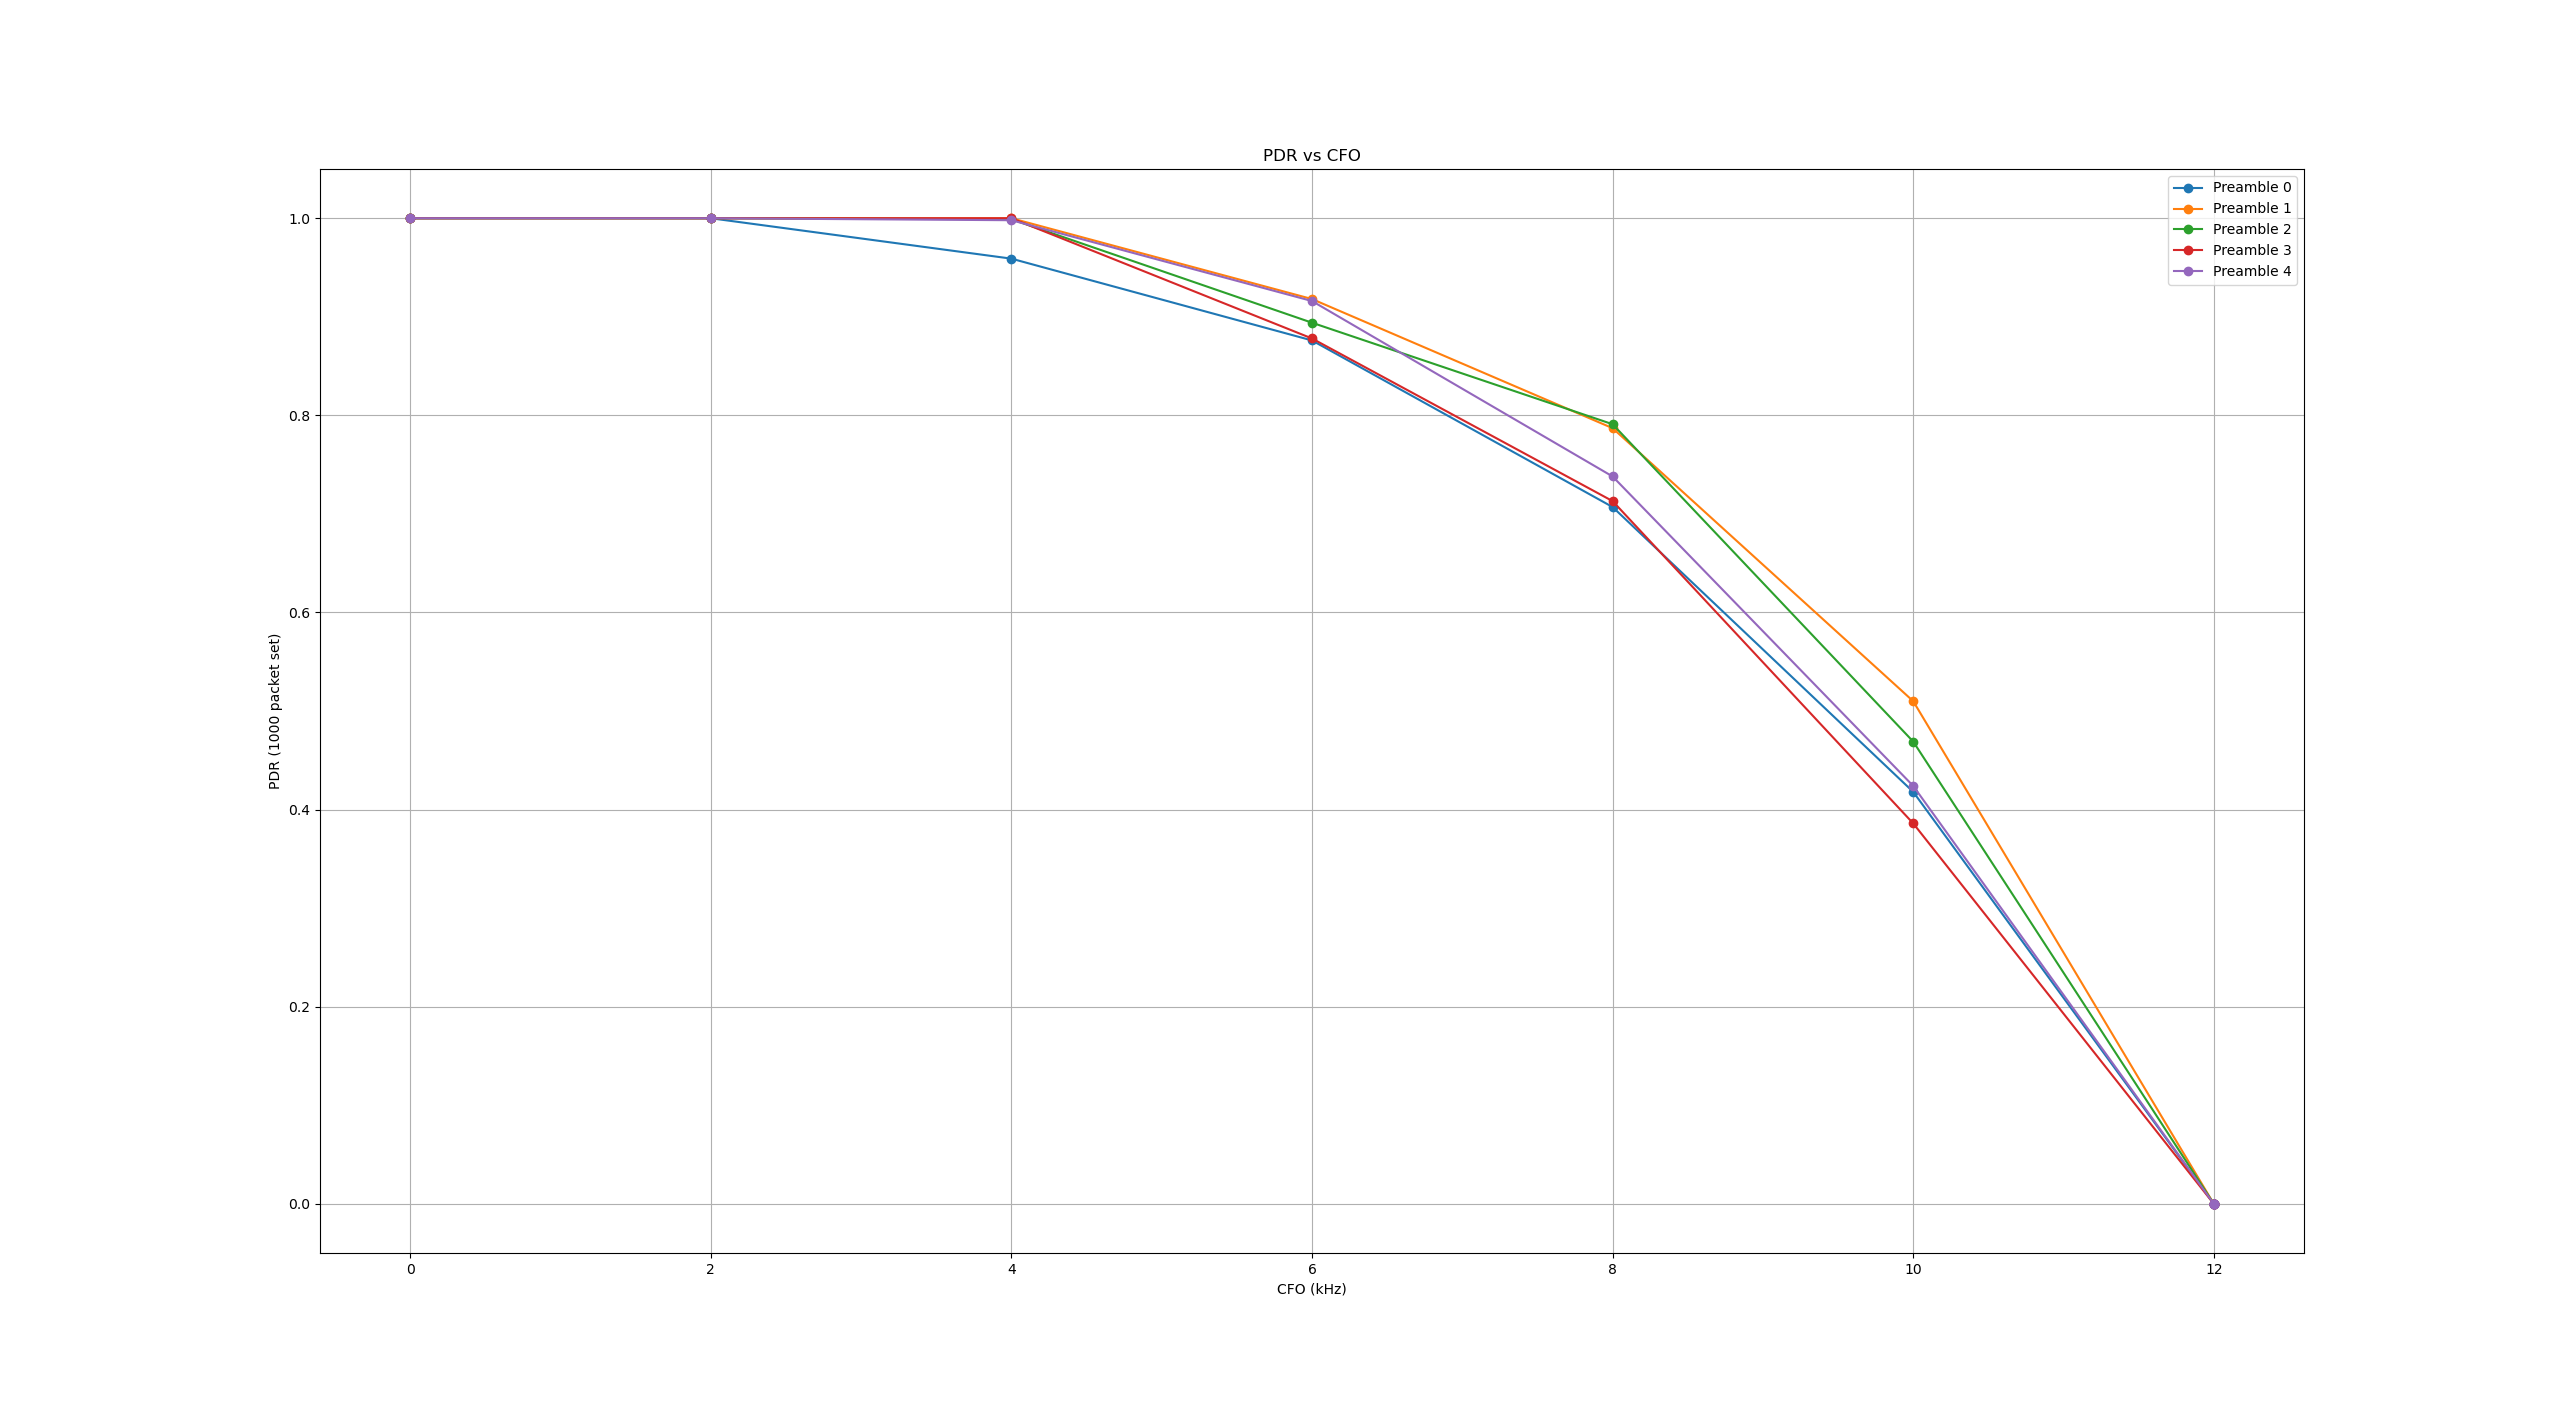
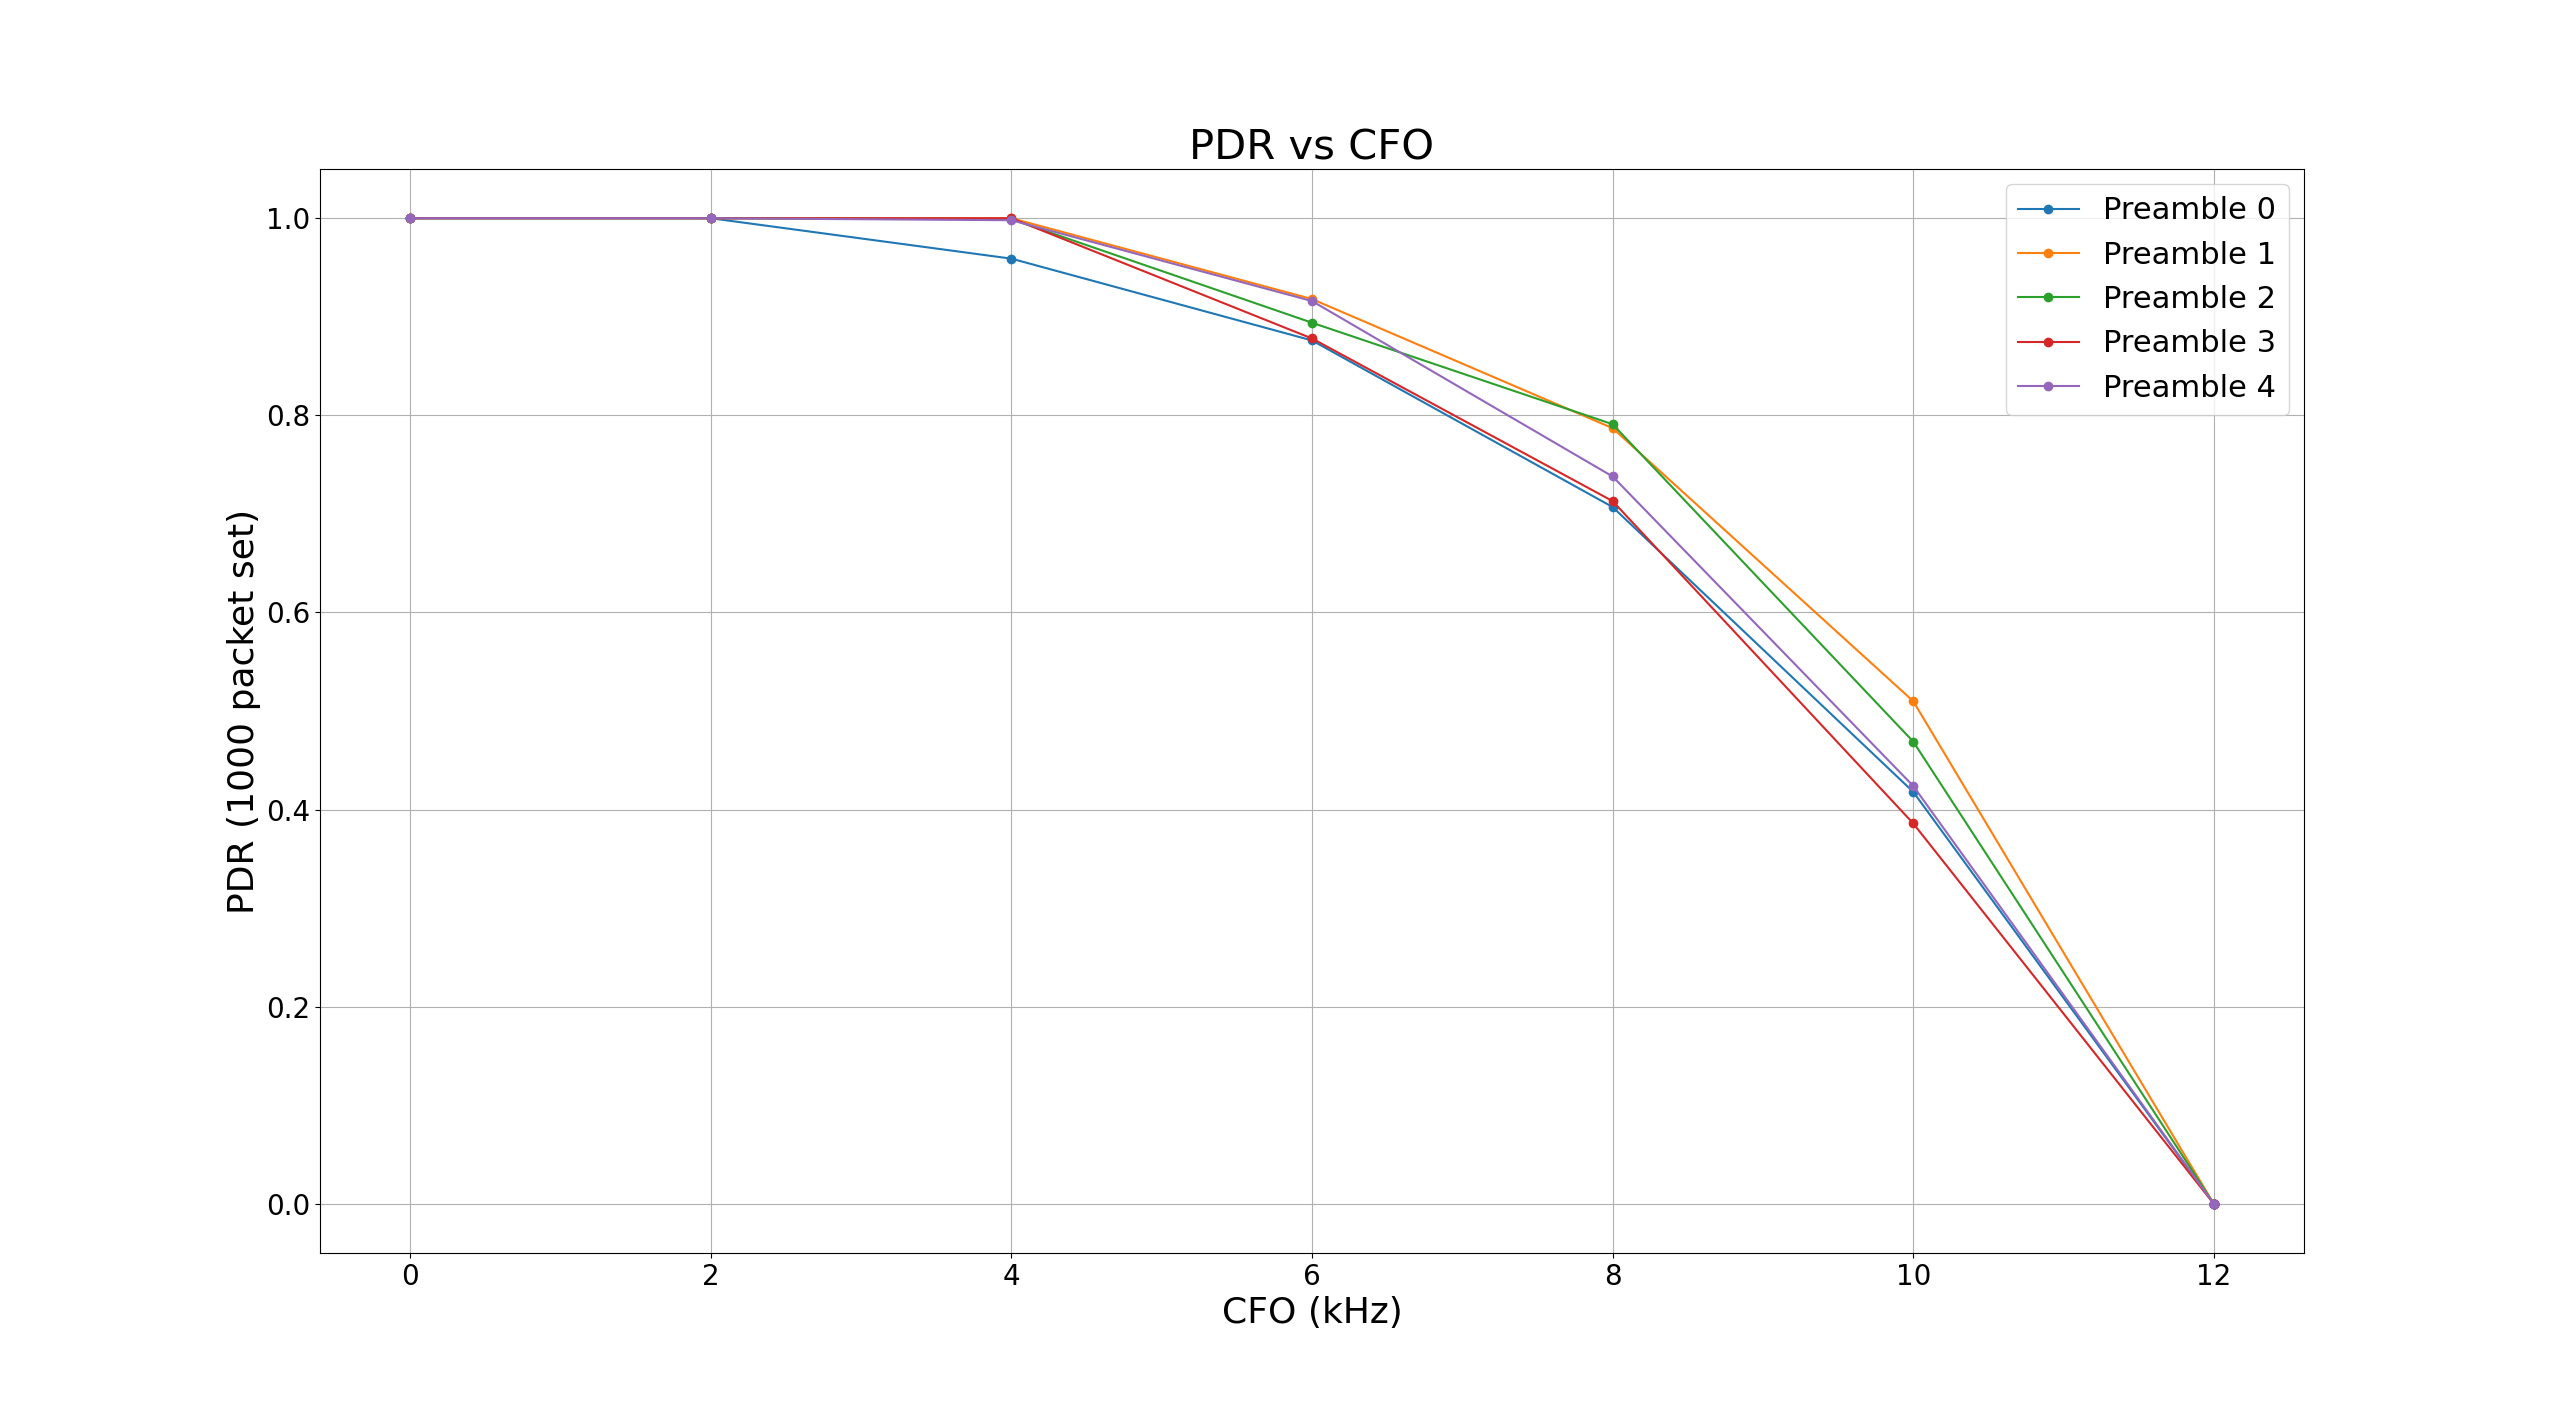
fixed label size

diff --git a/MC Preamble Testing data/phrasedata_snr.py b/MC Preamble Testing data/phrasedata_snr.py
@@ -15,7 +15,7 @@ all_preambles_data = []
 
 # Iterate through different Preamble_mcX directories
 for preamble_number in range(5):  # Range 5 for Preamble_mc0 to Preamble_mc4
-    directory = f'/home/spencer/Desktop/testing data/Preamble_mc{preamble_number}/Noise'
+    directory = f'/home/spencer/Documents/SeniorDesign/Git/dynamic-preambles/MC Preamble Testing data/Preamble_mc{preamble_number}/Noise'
 
     # Initialize lists to store CFO and PDR values for the current preamble
     SNR_values = []
@@ -46,10 +46,11 @@ for i, preamble_data in enumerate(all_preambles_data):
     SNR_values, PDR_values = zip(*preamble_data)
     plt.plot(SNR_values, PDR_values,marker='o', label=f'Preamble {i}')
 
-plt.xlabel('SNR (dB)')
-plt.ylabel('PDR (1000 packet set)')
-plt.title('PDR vs SNR')
-plt.legend()
+plt.xlabel('SNR (dB)', fontsize= 26)
+plt.ylabel('PDR (1000 packet set)', fontsize= 26)
+plt.title('PDR vs SNR', fontsize= 30)
+plt.tick_params(axis='both', which='major', labelsize=20)
+plt.legend(fontsize= 22)
 plt.grid(True)
 plt.show()
 

diff --git a/MC Preamble Testing data/phrasedata_cfo.py b/MC Preamble Testing data/phrasedata_cfo.py
@@ -14,7 +14,7 @@ all_preambles_data = []
 
 # Iterate through different Preamble_mcX directories
 for preamble_number in range(5):  # Range 5 for Preamble_mc0 to Preamble_mc4
-    directory = f'/home/spencer/Desktop/testing data/Preamble_mc{preamble_number}/CFO'
+    directory = f'/home/spencer/Documents/SeniorDesign/Git/dynamic-preambles/MC Preamble Testing data/Preamble_mc{preamble_number}/CFO'
 
     # Initialize lists to store CFO and PDR values for the current preamble
     CFO_values = []
@@ -44,10 +44,11 @@ for i, preamble_data in enumerate(all_preambles_data):
     CFO_values, PDR_values = zip(*preamble_data)
     plt.plot(CFO_values, PDR_values,marker='o', label=f'Preamble {i}')
 
-plt.xlabel('CFO (kHz)')
-plt.ylabel('PDR (1000 packet set)')
-plt.title('PDR vs CFO')
-plt.legend()
+plt.xlabel('CFO (kHz)', fontsize= 26)
+plt.ylabel('PDR (1000 packet set)', fontsize= 26)
+plt.title('PDR vs CFO', fontsize= 30)
+plt.tick_params(axis='both', which='major', labelsize=20)
+plt.legend(fontsize= 22)
 plt.grid(True)
 plt.show()
 
